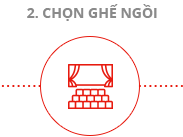
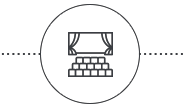
Images URL fixing and Process bar images update

diff --git a/resources/views/website/layout/Ticket/Payment.blade.php b/resources/views/website/layout/Ticket/Payment.blade.php
@@ -15,19 +15,19 @@
                 <div class="title_capnhattin">
                     <ul class="capnhattin hide-sp">
                         <li class="tin1">
-                            <a href="#" class="tin1"><img src="/Themes/RapChieuPhim/Content/content.v2/images/tin1.png" alt=""></a>
+                            <a href="#" class="tin1"><img src="{{ asset('/WebsiteCSS/Themes/RapChieuPhim/Content/content.v2/images/tin1.png')}}" alt=""></a>
                         </li>
                         <li class="tin2">
-                            <a href="#" class="tin2"><img src="/Themes/RapChieuPhim/Content/content.v2/images/tin2.png" alt=""></a>
+                            <a href="#" class="tin2"><img src="{{ asset('/WebsiteCSS/Themes/RapChieuPhim/Content/content.v2/images/tin2.png')}}" alt=""></a>
                         </li>
                         <li class="tin3 ">
-                            <a href="#" class="tin3"><img src="/Themes/RapChieuPhim/Content/content.v2/images/tin3.png" alt=""></a>
+                            <a href="#" class="tin3"><img src="{{ asset('/WebsiteCSS/Themes/RapChieuPhim/Content/content.v2/images/tin3.png')}}" alt=""></a>
                         </li>
                         <li class="tin4 active">
-                            <a href="#" class="tin4"><img src="/Themes/RapChieuPhim/Content/content.v2/images/tin4.png" alt=""></a>
+                            <a href="#" class="tin4"><img src="{{ asset('/WebsiteCSS/Themes/RapChieuPhim/Content/content.v2/images/tin4.png')}}" alt=""></a>
                         </li>
                         <li class="tin5">
-                            <a href="#" class="tin5"><img src="/Themes/RapChieuPhim/Content/content.v2/images/tin5.png" alt=""></a>
+                            <a href="#" class="tin5"><img src="{{ asset('/WebsiteCSS/Themes/RapChieuPhim/Content/content.v2/images/tin5.png')}}" alt=""></a>
                         </li>
                     </ul>
                     <ul class="hide-pc capnhattin-sp">
@@ -40,14 +40,14 @@
                 </div>
                 <div class="tittle-page">
                     <h3>4. PAYMENT</h3>
-                    <img src="/Themes/RapChieuPhim/Content/content.v2/images/icon-thanhtoan.png" alt="">
+                    <img src="{{ asset('/WebsiteCSS/Themes/RapChieuPhim/Content/content.v2/images/icon-thanhtoan.png')}}" alt="">
                 </div>
 <form action="/onepagecheckout" data-ajax="true" data-ajax-begin="return BeforeSumbit();" data-ajax-loading="#lean_overlay" data-ajax-method="Post" data-ajax-success="checkForRedirect(data)" id="form0" method="post" novalidate="novalidate">                    <div class="block-payment" style="height: 1441.3px;">
                         <div class="center-login marBot-capnhat">
                             <div class="form-payment">
                                 
                                     <div class="title-pay">
-                                        1. Chi tiết thông tin
+                                        1. Your  Information
                                     </div>
                                     
 
@@ -58,74 +58,42 @@
 
 <input data-val="true" data-val-number="The field Id must be a number." data-val-required="'Id' must not be empty." id="BillingNewAddress_Id" name="BillingNewAddress.Id" type="hidden" value="0">
 <div class="title-information">
-    <p>Địa chỉ email (<span>*</span>)</p>
+    <p>Email Address (<span>*</span>)</p>
     <input data-val="true" data-val-email="Định dạng hòm thư không đúng" data-val-required="Yêu cầu nhập hòm thư." id="BillingNewAddress_Email" name="BillingNewAddress.Email" type="text" value="">
     <span class="field-validation-valid" data-valmsg-for="BillingNewAddress.Email" data-valmsg-replace="true"></span>
     
 </div>
 <div class="row">
     <div class="col-md-6">
-        <p>Họ (<span>*</span>)</p>
+        <p>Full Name (<span>*</span>)</p>
         <input data-val="true" data-val-required="Yêu cầu nhập họ." id="BillingNewAddress_LastName" name="BillingNewAddress.LastName" type="text" value="">
         <span class="field-validation-valid" data-valmsg-for="BillingNewAddress.LastName" data-valmsg-replace="true"></span>
         
     </div>
-    <div class="col-md-6">
-        <p>Tên (<span>*</span>)</p>
-        <input data-val="true" data-val-required="Yêu cầu nhập tên" id="BillingNewAddress_FirstName" name="BillingNewAddress.FirstName" type="text" value="">
-        <span class="field-validation-valid" data-valmsg-for="BillingNewAddress.FirstName" data-valmsg-replace="true"></span>
-        
-    </div>
+   
 </div>
     <div class="title-information">
-        <p>Điện thoại (<span>*</span>)</p>
+        <p>Telephone (<span>*</span>)</p>
         <input data-val="true" data-val-required="Yêu cầu nhập số điện thoại" id="BillingNewAddress_PhoneNumber" name="BillingNewAddress.PhoneNumber" type="text" value="">
         <span class="field-validation-valid" data-valmsg-for="BillingNewAddress.PhoneNumber" data-valmsg-replace="true"></span>
         
     </div>
-    <div class="title-information">
-        <p>Quốc gia (<span>*</span>)</p>
-        <select data-val="true" data-val-number="The field Quốc gia must be a number." data-val-required="Yêu cầu nhập quốc gia." id="BillingNewAddress_CountryId" name="BillingNewAddress.CountryId" type="text"><option value="0">Chọn quốc gia</option>
-<option value="230">Viet Nam</option>
-</select>
-        
-    </div>
-    <div class="title-information">
-        <p>Thành phố (<span>*</span>)</p>
-        <input data-val="true" data-val-required="Yêu cầu nhập thành phố" id="BillingNewAddress_City" name="BillingNewAddress.City" type="text" value="">
-
-
-        <span class="field-validation-valid" data-valmsg-for="BillingNewAddress.City" data-valmsg-replace="true"></span>
-        
-    </div>
-
-    <div class="title-information">
-        <p>Phường, xã (<span>*</span>)</p>
-        <input data-val="true" data-val-required="Yêu cầu nhập phường/ xã" id="BillingNewAddress_Address2" name="BillingNewAddress.Address2" type="text" value="">
-        <span class="field-validation-valid" data-valmsg-for="BillingNewAddress.Address2" data-valmsg-replace="true"></span>
-        
-    </div>
-    <div class="title-information">
-        <p>Địa chỉ ( số nhà, đường ) (<span>*</span>)</p>
-        <input data-val="true" data-val-required="Yêu cầu nhập địa chỉ" id="BillingNewAddress_Address1" name="BillingNewAddress.Address1" type="text" value="">
-        <span class="field-validation-valid" data-valmsg-for="BillingNewAddress.Address1" data-valmsg-replace="true"></span>
-        
-    </div>
+    
     <div class="text-last-information">
-        <span>(*) Thông tin bắt buộc</span>
+        <span>(*) Required Information</span>
     </div>
 
 
     
                                     <div class="title-pay">
-                                        2. Hình thức thanh toán
+                                        2. Payment Method
                                     </div>
                                     <div class="row">
                                         <div class="col-md-4">
                                             <label class="container-chose">
                                                 <input id="paymentmethod_0" type="radio" name="paymentmethod" value="Payments.VNPay" class="paymentmethod">
                                                 <span class="chose-pay"></span>
-                                                <img src="/Themes/RapChieuPhim/Content/content.v2/images/icon-vnpay.png" alt="">
+                                                <img src="/WebsiteCSS/Themes/RapChieuPhim/Content/content.v2/images/cash_pay.png" height="50px" width="90px" alt="">
                                             </label>
 
                                         </div>
@@ -133,36 +101,14 @@
 
                                         
 
-                                        <div class="col-md-4">
-                                            <label class="container-chose">
-                                                <input id="paymentmethod_3" type="radio" name="paymentmethod" value="Payments.PayPalStandard" class="paymentmethod">
-                                                <span class="chose-pay"></span>
-                                                <img src="/Themes/RapChieuPhim/Content/content.v2/images/icon-payoo.png" alt="">
-                                            </label>
-
-                                        </div>
                                     </div>
-                                    <div>
-                                        <label class="container-chose-condition-op" id="container-chose-condition-op" style="display: none;">
-                                            <input id="paymentmethod_1" type="checkbox" name="paymentmethod" value="Payments.OnePay" class="paymentmethod">
-                                            <span class="chose-pay-condition"></span>
-                                            Thanh toán qua thẻ ATM nội địa
-                                        </label>
-                                    </div>
-                                    <div>
-                                        <label class="container-chose-condition-op" style="display: none;">
-                                            <input id="paymentmethod_2" type="checkbox" name="paymentmethod" value="Payments.CashOnDelivery" class="paymentmethod">
-                                            <span class="chose-pay-condition"></span>
-                                            Thanh toán qua thẻ VISA/MATER ( chỉ chấp nhận thẻ do ngân hàng nội
-                                            địa cấp )
-                                        </label>
-                                    </div>
+                                 
                                     <table class="table table-payment">
     <thead>
         <tr>
-            <th>Ghế đã mua</th>
-            <th>Số lượng</th>
-            <th>Tổng tiền</th>
+            <th>Selected Seats</th>
+            <th>Amount</th>
+            <th>Total</th>
         </tr>
     </thead>
     <tbody>
@@ -175,44 +121,11 @@
 </table>
 
 
-                                    <div>
-                                        <label class="container-chose-condition">
-                                            <input type="checkbox">
-                                            <span class="chose-pay-condition"></span>
-                                            <b>Đăng ký nhận tin khuyến mãi qua email</b>
-                                        </label>
-                                    </div>
-                                    <table class="table table-regulations">
-                                        <thead>
-                                            <tr>
-                                                <th>Quy định khi mua vé online</th>
-                                            </tr>
-                                        </thead>
-                                        <tbody>
-                                            <tr>
-                                                <td>
-                                                    <b>Bạn cần đọc và chấp nhận đồng ý theo Điều khoản khi mua hàng </b><br>
-                                                    <div class="policy-payment">
-                                                        <div class="content-policy scrollbar-policy shadow">
-                                                            <b>
-                                                                CHÍNH SÁCH THANH TOÁN VÉ TRỰC TUYẾN  Xin vui lòng đọc các điều khoản sau cẩn thận trước khi sử dụng dịch vụ thanh toán trực tuyến. Với việc truy cập vào phần này của website, bạn đã đồng ý với các điều khoản sử dụng của chúng tôi. Các điều khoản này có thể thay đổi theo thời gian và bạn sẽ phải tuân theo các điều khoản được hiển thị từ thời điểm bạn đọc được các điều khoản này. Trung tâm Chiếu phim Quốc gia luôn luôn mong muốn đem đến những giây phút giải trí tuyệt vời cho khách hàng với chất lượng dịch vụ tốt nhất. Dưới đây sẽ là một số hướng dẫn cho chính sách thanh toán vé trực tuyến. 1. Đối tượng áp dụng Chương trình thanh toán online chỉ áp dụng cho các suất chiếu quy định tại Trung tâm Chiếu phim Quốc gia. Việc đăng kí tham gia Thành Viên Trung tâm Chiếu phim Quốc gia là hoàn toàn miễn phí. Khách hàng của Trung tâm Chiếu phim Quốc gia có thể thanh toán trực tuyến tối đa 8 vé cho một lần giao dịch. Nếu bạn có nhu cầu mua vé với số lượng lớn hơn, vui lòng liên hệ với 04 35148647 hoặc gửi thông tin vào hòm thư     ......@chieuphimquocgia.com.vn. 2. Chính sách Hoàn Vé hay Đổi Vé Trên website, giá vé được quy định là giá vé dành cho người lớn, trừ trường hợp có thông báo khác. Trung tâm Chiếu phim Quốc gia không chấp nhận hoàn tiền hoặc đổi vé đã thanh toán thành công trên website Trung tâm Chiếu phim Quốc gia. Trung tâm Chiếu phim Quốc gia chỉ thực hiện hoàn tiền trong trường hợp khi giao dịch, tài khoản của bạn đã bị trừ tiền nhưng hệ thống của chúng tôi không ghi nhận việc đặt vé của bạn, và bạn không nhận được xác nhận đặt vé thành công. Khi đó, bạn vui lòng liên hệ với Trung tâm Chiếu phim Quốc gia : 04 35141791 Sau khi đã xác nhận các thông tin của khách hàng cung cấp về giao dịch không thành công, tùy theo từng loại tài khoản khách hàng sử dụng mà việc hoàn tiền sẽ có thời gian khác nhau:  1. Thẻ ATM (Nội địa): hoàn tiền trong 1 tuần làm việc  2. Thẻ VISA/ MasterCard (Nội địa): hoàn tiền trong 1 tháng làm việc 3. Thẻ ATM của ngân hàng Vietcombank: hoàn tiền trong vòng 48 giờ làm việc.  Trước khi thanh toán vé trực tuyến, chúng tôi khuyên bạn nên xác nhận lại Tên phim, Giờ chiếu và Rạp chiếu của bộ phim bạn muốn xem.  3. Thư và tin nhắn xác nhận đặt vé Sau khi hoàn thành việc thanh toán vé trực tuyến, bạn sẽ nhận được thư xác nhận thông tin chi tiết vé đã thanh toán thông qua địa chỉ thư điện tử (email) mà bạn đã cung cấp. Ngoài ra, bạn sẽ nhận được một tin nhắn miễn phí, xác nhận mã số đặt vé và các thông tin vé đã đặt. Lưu ý email và tin nhắn này chỉ có tính chất dự phòng. Do đó, chúng tôi đề nghị bạn khi tiến hành các bước thanh toán, cần đọc kĩ các thông tin trên màn hình về rạp chiếu phim, tên phim, suất chiếu, và chỗ ngồi trước khi hoàn tất việc xác nhận tất cả các thông tin về vé.  Email xác nhận thông tin đặt vé có thể đi vào hộp thư rác (spam mail) của bạn, vì vậy hãy kiểm tra chúng trước khi liên lạc với chúng tôi. Nếu bạn có thắc mắc hoặc gặp vấn đề với việc đặt vé của bạn, bạn có thể liên hệ với chúng tôi tại: 0435141791  để được hỗ trợ.  4. Nhận Vé Hiện tại chúng tôi chưa có dịch vụ hủy hoặc thay đổi thông tin vé thanh toán trực tuyến. Vui lòng kiểm tra lại những xác nhận trực tuyến, trong e-mail và/hoặc trên di động của bạn một cách cẩn thận vì chúng sẽ cung cấp cho bạn những thông tin quan trọng để nhận vé cho suất chiếu bạn đã chọn. Hãy nhớ mang theo thư xác nhận đặt vé đến Trung tâm Chiếu phim Quốc gia. Nếu bạn không có máy in hay không thể in thư xác nhận, bạn chỉ cần nhớ mã đặt vé. Khi tới rạp, bạn hãy tìm các bảng chỉ dẫn tới khu vực dành riêng cho vé mua qua mạng.   Bên cạnh đó, bạn cần mang theo giấy tờ tùy thân có ảnh của bạn như CMND, thẻ sinh viên hoặc passport.  Nếu bạn sử dụng thẻ tín dụng không phải phát hành ở Việt Nam, ngoài giấy tờ tùy thân có ảnh, xin vui lòng mang theo thẻ tín dụng để xuất trình khi lấy vé.   Bằng việc thanh toán qua website này, bạn chấp nhận vị trí ghế ngồi mà bạn đã đặt. Bạn đồng ý rằng, trong những trường hợp có sự thay đổi về chương trình phim hoặc bất khả kháng, chúng tôi có quyền hoàn trả lại bất kỳ vé nào từ việc mua bán qua trang web này hoặc thực hiện việc chuyển vé cho bạn qua suất chiếu khác theo yêu cầu của bạn. 5. Phí Đặt Vé Những vé thanh toán trên web site Trung tâm Chiếu phim Quốc gia sẽ phải chấp nhận một phụ phí không hoàn lại gọi là Phí Đặt Vé, ngoại trừ các trường hợp đặc biệt khi Trung tâm Chiếu phim Quốc gia không thể cung cấp cho bạn vé đã đặt Hiện tại mức phí này là 0 VND cho tất cả các giao dịch thanh toán vé online. Tuy nhiên, mức phí này có thể thay đổi bất cứ khi nào. Chúng tôi sẽ thông báo đến bạn khi có thay đổi.  6. Phân Loại Phim Mức độ phổ biến phim được duyệt bởi Cục Điện Ảnh thuộc Bộ Văn Hóa Thể Thao và Du Lịch Việt Nam. Do đó, khi bạn tiến hành đặt vé và thanh toán, bạn phải hoàn toàn chịu trách nhiệm với việc độ tuổi của bạn được phép xem bộ phim mà bạn lựa chọn. Khi đến lấy vé tại quầy vé, nhân viên Trung tâm Chiếu phim Quốc gia có thể yêu cầu bạn xuất trình giấy tờ tùy thân để chứng minh độ tuổi qui định.  7. Thuế Giá Trị Gia Tăng Thuế giá trị gia tăng (GTGT) được áp dụng cho tất cả các mặt hàng và dịch vụ trên trang mạng này. Các đơn giá trên trang mạng này đã bao gồm GTGT nếu có. 8. Chức năng chống gian lận Trung tâm Chiếu phim Quốc gia (hoặc bên thứ ba - nhà cung cấp cổng thanh toán điện tử, hoặc/và các bên ký kết khác) sẽ sử dụng các công nghệ đặc biệt để nhận biết các hoạt động giả mạo trên trang mạng, ví dụ: sử dụng thẻ tín dụng giả. Sự chấp nhận hợp tác của bạn cùng với nỗ lực của Trung tâm Chiếu phim Quốc gia là rất cần thiết. Bạn chấp chận rằng Trung tâm Chiếu phim Quốc gia có thể chấm dứt quyền truy cập và sử dụng trang mạng của Trung tâm Chiếu phim Quốc gia nếu bạn hoặc người khác hành động nhân danh bạn vì lý do nào đó nằm trong diện nghi vấn có gian lận hoặc vi phạm các điều khoản này. 9. Sử dụng thẻ tín dụng/ thẻ ghi nợ. Nếu bạn phát hiện thẻ của mình bị sử dụng giả mạo để mua hàng trên trang mạng này, bạn hãy lập tức liên hệ với ngân hàng phát hành thẻ của bạn theo qui trình. 10. Cảnh Báo An Ninh Trung tâm Chiếu phim Quốc gia sẽ hết sức cố gắng sử dụng mọi biện pháp và tuân theo mọi cách thức có thể để giữ an toàn cho tất cả các thông tin cá nhân của bạn, và chúng tôi cũng sẽ thường xuyên cập nhật những thông tin chính xác nhất. Trang mạng này có những công nghệ an ninh đảm bảo việc bảo vệ các thông tin bị thất lạc, lạm dụng hoặc thay đổi. Tât cả các giao dịch và thông tin về thẻ đươc sử dụng đều được mã hóa qua công nghệ Secure Sockets Layer (SSL). Đó là phần mềm tốt nhất về đảm bảo an toàn cho các giao dịch kinh tế ngày nay. Mặc dù vậy, không phải tất cả các dữ liệu truyền qua Internet đều có thể đảm bảo 100%, vì thế chúng tôi không thể đưa ra một sự đảm bảo tuyệt đối rằng mọi thông tin bạn cung cấp đều được bảo vệ tât cả mọi lúc. LIÊN HỆ Các bạn có thể liên hệ với chúng tôi qua địa chỉ : 0435141791 để được hỗ trợ thêm.
-                                                            </b>
-                                                        </div>
-                                                    </div>
-                                                    <div>
-                                                        <label class="container-chose-condition">
-                                                            <input type="checkbox" id="checkqd" class="dkdieukhoan">
-                                                            <span class="chose-pay-condition"></span>
-                                                            <b>Tôi đã đọc và đồng ý tuân theo điều khoản</b>
-                                                        </label>
-                                                    </div>
-                                                </td>
-                                            </tr>
-                                        </tbody>
-                                    </table>
+                                  
+                                    
                                     <div class="btn-thongbao form_dangki">
-                                        <button class="btn-back" onclick="location.href='/PlanScreenings/BookTicket?pId=302973'">QUAY LẠI GHẾ CHỌN</button>
-                                        <button class="btn-contact" type="submit" name="ctl00$cph1$btnPayment" value="" id="ctl00_cph1_btnPayment">TIẾP TỤC</button>
+                                        <button class="btn-back" onclick="location.href='/PlanScreenings/BookTicket?pId=302973'">RETURN TO SEAT SELECT</button>
+                                        <button class="btn-contact" type="submit" name="ctl00$cph1$btnPayment" value="" id="ctl00_cph1_btnPayment">CONTINUE</button>
                                     </div>
                                 
                             </div>
@@ -237,7 +150,7 @@
                         
                     </div></form>
             </div>
-            <a href="#"><img src="/Themes/RapChieuPhim/Content/content.v2/images/livechat.png" alt="" class="livechat"></a>
+           
         </div>
     </div>
 @endsection

diff --git a/resources/views/website/layout/Ticket/Seat-Select.blade.php b/resources/views/website/layout/Ticket/Seat-Select.blade.php
@@ -15,19 +15,19 @@
             <div class="title_capnhattin">
                 <ul class="capnhattin hide-sp">
                     <li class="tin1">
-                        <a href="#" class="tin1"><img src="/Themes/RapChieuPhim/Content/content.v2/images/tin1.png" alt=""></a>
+                        <a href="#" class="tin1"><img src="{{ asset('/WebsiteCSS/Themes/RapChieuPhim/Content/content.v2/images/tin1.png')}}" alt=""></a>
                     </li>
                     <li class="tin2 active">
-                        <a href="#" class="tin2"><img src="/Themes/RapChieuPhim/Content/content.v2/images/tin2.png" alt=""></a>
+                        <a href="#" class="tin2"><img src="{{ asset('/WebsiteCSS/Themes/RapChieuPhim/Content/content.v2/images/tin2.png')}}" alt=""></a>
                     </li>
-                    <li class="tin3">
-                        <a href="#" class="tin3"><img src="/Themes/RapChieuPhim/Content/content.v2/images/tin3.png" alt=""></a>
+                    <li class="tin3 ">
+                        <a href="#" class="tin3"><img src="{{ asset('/WebsiteCSS/Themes/RapChieuPhim/Content/content.v2/images/tin3.png')}}" alt=""></a>
                     </li>
                     <li class="tin4">
-                        <a href="#" class="tin4"><img src="/Themes/RapChieuPhim/Content/content.v2/images/tin4.png" alt=""></a>
+                        <a href="#" class="tin4"><img src="{{ asset('/WebsiteCSS/Themes/RapChieuPhim/Content/content.v2/images/tin4.png')}}" alt=""></a>
                     </li>
                     <li class="tin5">
-                        <a href="#" class="tin5"><img src="/Themes/RapChieuPhim/Content/content.v2/images/tin5.png" alt=""></a>
+                        <a href="#" class="tin5"><img src="{{ asset('/WebsiteCSS/Themes/RapChieuPhim/Content/content.v2/images/tin5.png')}}" alt=""></a>
                     </li>
                 </ul>
                 <ul class="hide-pc capnhattin-sp">
@@ -67,18 +67,18 @@
                 Click again on the selected seat to cancel the seat selection<br>
                 <span style="color:red">Seatmap displays at its best in landscape mode on mobile devices</span>
             </p>
-          
+           
             <ul class="list-ghe">
-                <li><img src="/Themes/RapChieuPhim/Content/content.v2/images/0000193_ghe-vip.jpg" alt=""> VIP Seats </li>
-                <li><img src="/Themes/RapChieuPhim/Content/content.v2/images/0000194_ghe-thuong..jpg" alt=""> Normal Seats </li>
-                <li><img src="/Themes/RapChieuPhim/Content/images/seat_active.png" alt=""> Selected Seats</li>
-                <li><img src="/Themes/RapChieuPhim/Content/images/seat_lock.png" alt=""> Unavailable Seats</li>
+                <li><img src="{{ asset('/WebsiteCSS/Themes/RapChieuPhim/Content/content.v2/images/0000193_ghe-vip.jpg')}}" alt=""> VIP Seats </li>
+                <li><img src="{{ asset('/WebsiteCSS/Themes/RapChieuPhim/Content/content.v2/images/0000194_ghe-thuong.jpg')}}" alt=""> Normal Seats </li>
+                <li><img src="{{ asset('/WebsiteCSS/Themes/RapChieuPhim/Content/content.v2/images/seat_active.png')}}" alt=""> Selected Seats</li>
+                <li><img src="{{ asset('/WebsiteCSS/Themes/RapChieuPhim/Content/content.v2/images/seat_lock.png')}}" alt=""> Unavailable Seats</li>
             </ul>
-            <img src="/Themes/RapChieuPhim/Content/content.v2/images/img49.png" alt="" class="img-center">
+            <img src="{{ asset('/WebsiteCSS/Themes/RapChieuPhim/Content/content.v2/images/img49.png')}}" alt="" class="img-center">
             
 
 
-a
+
                 <div class="line-ghe">
                     <p class="tx-lf">A</p>
                     <ul>
@@ -194,7 +194,7 @@ a
                 </div>
             </div>
         </div>
-        <a href="#"><img src="/Themes/RapChieuPhim/Content/content.v2/images/livechat.png" alt="" class="livechat"></a>
+      
     </div>
 </div>
 

diff --git a/resources/views/website/layout/Ticket/Booking-Confirm.blade.php b/resources/views/website/layout/Ticket/Booking-Confirm.blade.php
@@ -15,19 +15,19 @@
                 <div class="title_capnhattin">
                     <ul class="capnhattin hide-sp">
                         <li class="tin1">
-                            <a href="#" class="tin1"><img src="/Themes/RapChieuPhim/Content/content.v2/images/tin1.png" alt=""></a>
+                            <a href="#" class="tin1"><img src="{{ asset('/WebsiteCSS/Themes/RapChieuPhim/Content/content.v2/images/tin1.png')}}" alt=""></a>
                         </li>
                         <li class="tin2">
-                            <a href="#" class="tin2"><img src="/Themes/RapChieuPhim/Content/content.v2/images/tin2.png" alt=""></a>
+                            <a href="#" class="tin2"><img src="{{ asset('/WebsiteCSS/Themes/RapChieuPhim/Content/content.v2/images/tin2.png')}}" alt=""></a>
                         </li>
                         <li class="tin3 active">
-                            <a href="#" class="tin3"><img src="/Themes/RapChieuPhim/Content/content.v2/images/tin3.png" alt=""></a>
+                            <a href="#" class="tin3"><img src="{{ asset('/WebsiteCSS/Themes/RapChieuPhim/Content/content.v2/images/tin3.png')}}" alt=""></a>
                         </li>
                         <li class="tin4">
-                            <a href="#" class="tin4"><img src="/Themes/RapChieuPhim/Content/content.v2/images/tin4.png" alt=""></a>
+                            <a href="#" class="tin4"><img src="{{ asset('/WebsiteCSS/Themes/RapChieuPhim/Content/content.v2/images/tin4.png')}}" alt=""></a>
                         </li>
                         <li class="tin5">
-                            <a href="#" class="tin5"><img src="/Themes/RapChieuPhim/Content/content.v2/images/tin5.png" alt=""></a>
+                            <a href="#" class="tin5"><img src="{{ asset('/WebsiteCSS/Themes/RapChieuPhim/Content/content.v2/images/tin5.png')}}" alt=""></a>
                         </li>
                     </ul>
                     <ul class="hide-pc capnhattin-sp">
@@ -40,7 +40,7 @@
                 </div>
                 <div class="tittle-page">
                     <h3>3. BOOKING CONFIRMATION</h3>
-                    <img src="/Themes/RapChieuPhim/Content/content.v2/images/icon09.png" alt="">
+                    <img src="{{ asset('/WebsiteCSS/Themes/RapChieuPhim/Content/content.v2/images/icon09.png')}}" alt="">
                 </div>
                 <div class="block-capnhat">
                     <div class="center-login marBot-capnhat">
@@ -92,8 +92,9 @@
                                    
 
                                     
-                                    <div class="btn_dangki">
-                                        <button type="submit" class="capnhat-btn" value="PAYMENT">PAYMENT</button>
+                                    <div class="btn-thongbao form_dangki">
+                                        <button class="btn-back" onclick="location.href='/PlanScreenings/BookTicket?pId=302973'">RETURN TO SEAT SELECT</button>
+                                        <button class="btn-contact" type="submit" name="ctl00$cph1$btnPayment" value="" id="ctl00_cph1_btnPayment">CONTINUE TO PAYMENT</button>
                                     </div>
                                     
                                     

diff --git a/routes/web.php b/routes/web.php
@@ -200,12 +200,29 @@ use App\Http\Controllers\MovieController;
 
 // Website Routes
 
-Route::get('/', [MovieController::class, 'index_user_nowshowing'])
+
+    // Movie 
+    Route::get('/', [MovieController::class, 'index_user_nowshowing'])
     -> name('movie.indexUser');
 
-Route::get('/adHomepage', [MovieController::class, 'index_admin_nowshowing'])
-    -> name('movie.indexAdmin');
+    Route::get('/adHomepage', [MovieController::class, 'index_admin_nowshowing'])
+        -> name('movie.indexAdmin');
 
-Route::get('/moviedetail/{m_id}', [MovieController::class, 'movie_detail'])
-    -> name('movie.detail');
+    Route::get('/moviedetail/{m_id}', [MovieController::class, 'movie_detail'])
+        -> name('movie.detail');
+
+    // Ticket Booking
+    Route::get('/payment', function(){
+        return view('website.layout.Ticket.Payment');
+    });
+
+    Route::get('/seat-select', function(){
+        return view('website.layout.Ticket.Seat-Select');
+    });
+
+    Route::get('/booking-confirm', function(){
+        return view('website.layout.Ticket.Booking-Confirm');
+    });
+        
+
         
